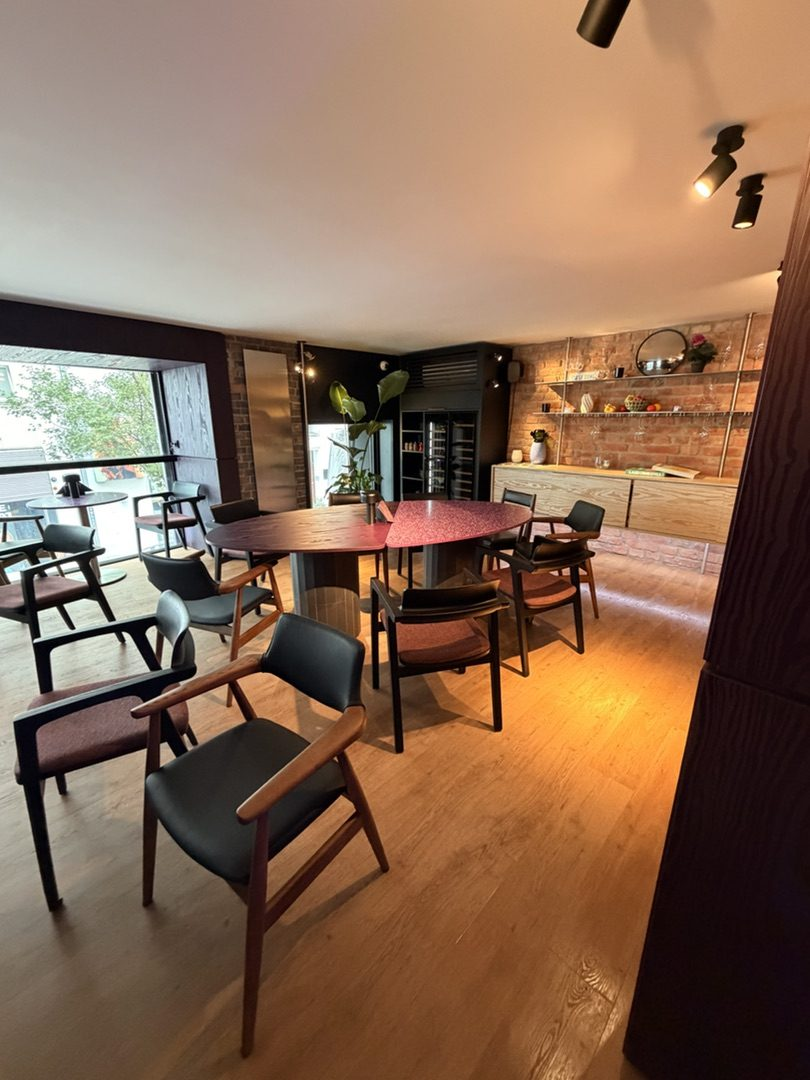
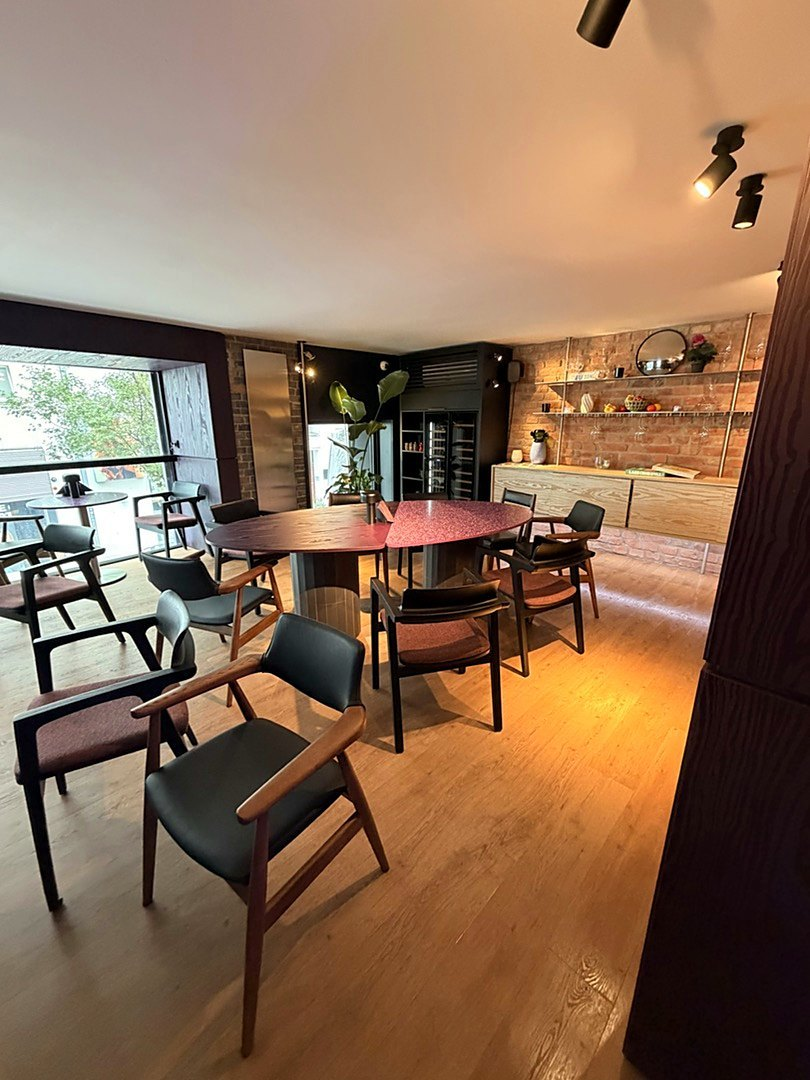
HOMIE case: the post-renovation history, better and brighter photos (#5)
The owner: «в феврале 26 делали несколько уборок после ремонта, после были еще
ремонты и в августе мы делали финальную уборку после ремонта».

- Stages: after the renovation (February 2026, several visits) → the final
  post-renovation cleaning (August 2026, 2 cleaners × 4 hours) → regular since
  12 September (Wednesday + Saturday mornings, the washroom log after every
  visit, two deep cleans in September on top). «Working together: since
  February 2026»; task, intro and result tell the same story.
- Photos 5–7 (stairs, washbasins, washroom) replaced with the owner's better
  shots from the regular cleanings; all eight brightened (the light stretched
  and lifted, colours of the venue kept) and gently sharpened.
- 13 new texts translated into ru, en, de and sk; the 13 texts of the first
  version that no page uses any more removed from the dictionaries.

Every page of every language renders without a script error or a Ukrainian
text left.

Claude-Session: https://claude.ai/code/session_018fMzojw3TUE5YQYnBgezzW

diff --git a/assets/i18n/ru.js b/assets/i18n/ru.js
@@ -2785,31 +2785,19 @@ window.SG_I18N = {
 "Обрати глибоке прибирання": "Выбрать глубокую",
 "Ресторан і бар": "Ресторан и бар",
 "Rabensteig, Відень": "Rabensteig, Вена",
-"Від першого прибирання до регулярного графіка — двічі на тиждень до відкриття закладу.": "От первой уборки до регулярного графика — дважды в неделю до открытия заведения.",
 "середа й субота, вранці": "среда и суббота, утром",
 "2 клінери × 4 години": "2 клинера × 4 часа",
 "Гігієна": "Гигиена",
 "протокол санвузлів після кожного виїзду": "протокол санузлов после каждого выезда",
-"із серпня 2026": "с августа 2026",
-"Ресторан і бар у центрі Відня: зали, барна стійка, кухня з піччю для піци, сходи між поверхами й санвузли. Прибирати треба вранці, до відкриття, щоб заклад зустрічав гостей чистим, а гігієну санвузлів — фіксувати після кожного виїзду.": "Ресторан и бар в центре Вены: залы, барная стойка, кухня с печью для пиццы, лестницы между этажами и санузлы. Убирать нужно утром, до открытия, чтобы заведение встречало гостей чистым, а гигиену санузлов — фиксировать после каждого выезда.",
-"Перше прибирання": "Первая уборка",
 "серпень 2026 · 2 клінери × 4 години": "август 2026 · 2 клинера × 4 часа",
-"Перший виїзд: двоє клінерів по 4 години пройшли всі зони закладу — зали, бар, кухню, сходи й санвузли.": "Первый выезд: двое клинеров по 4 часа прошли все зоны заведения — залы, бар, кухню, лестницы и санузлы.",
-"вересень 2026 · окремо від графіка": "сентябрь 2026 · отдельно от графика",
-"Понад регулярні виїзди — два глибокі прибирання. Їх рахуємо окремо, за фактично відпрацьований час.": "Сверх регулярных выездов — две глубокие уборки. Их считаем отдельно, за фактически отработанное время.",
-"середа й субота · 2 клінери × 4 години": "среда и суббота · 2 клинера × 4 часа",
-"З 12 вересня — двічі на тиждень, вранці до відкриття: двоє клінерів по 4 години. Після кожного виїзду заповнюємо протокол прибирання санвузлів: дата, час, дезінфекція, підпис клінера.": "С 12 сентября — дважды в неделю, утром до открытия: двое клинеров по 4 часа. После каждого выезда заполняем протокол уборки санузлов: дата, время, дезинфекция, подпись клинера.",
 "Зал ресторану HOMIE: столи, стільці й чиста деревʼяна підлога": "Зал ресторана HOMIE: столы, стулья и чистый деревянный пол",
 "Бар HOMIE з підсвіткою: довга стійка й барні стільці": "Бар HOMIE с подсветкой: длинная стойка и барные стулья",
 "Столики біля вікна в залі HOMIE": "Столики у окна в зале HOMIE",
 "Столики біля вікна": "Столики у окна",
 "Великий стіл для компаній у залі HOMIE": "Большой стол для компаний в зале HOMIE",
 "Стіл для компаній": "Стол для компаний",
-"Сходи HOMIE з підсвіткою: сходинки без пилу": "Лестница HOMIE с подсветкой: ступени без пыли",
 "Сходи": "Лестницы",
-"Рожеві умивальники з терацо в санвузлі HOMIE без розводів": "Розовые раковины из терраццо в санузле HOMIE без разводов",
 "Умивальники": "Раковины",
-"Санвузол HOMIE: чистий унітаз і підлога": "Санузел HOMIE: чистый унитаз и пол",
 "Кухня HOMIE: поверхні з нержавійки й піч для піци": "Кухня HOMIE: поверхности из нержавейки и печь для пиццы",
 "Зали: столи, стільці й підлога": "Залы: столы, стулья и пол",
 "Бар: стійка й робочі поверхні": "Бар: стойка и рабочие поверхности",
@@ -2818,5 +2806,17 @@ window.SG_I18N = {
 "Санвузли: сантехніка, умивальники, дзеркала й підлога": "Санузлы: сантехника, раковины, зеркала и пол",
 "Протокол прибирання санвузлів після кожного виїзду": "Протокол уборки санузлов после каждого выезда",
 "Глибоке прибирання — окремо, за фактичний час": "Глубокая уборка — отдельно, за фактическое время",
-"Двічі на тиждень заклад зустрічає гостей чистим, а гігієна санвузлів задокументована після кожного виїзду.": "Дважды в неделю заведение встречает гостей чистым, а гигиена санузлов задокументирована после каждого выезда."
+"Від прибирань після ремонту до регулярного графіка — історія одного закладу.": "От уборок после ремонта до регулярного графика — история одного заведения.",
+"з лютого 2026": "с февраля 2026",
+"Ресторан і бар у центрі Відня: зали, барна стійка, кухня з піччю для піци, сходи між поверхами й санвузли. Ремонт ішов у кілька етапів: спершу — прибрати після ремонту, а коли роботи завершилися, — двічі на тиждень вранці готувати заклад до гостей і фіксувати гігієну санвузлів.": "Ресторан и бар в центре Вены: залы, барная стойка, кухня с печью для пиццы, лестницы между этажами и санузлы. Ремонт шёл в несколько этапов: сначала — убрать после ремонта, а когда работы завершились, — дважды в неделю утром готовить заведение к гостям и фиксировать гигиену санузлов.",
+"лютий 2026 · кілька виїздів": "февраль 2026 · несколько выездов",
+"Перші прибирання — ще в лютому: кілька виїздів після ремонту. Потім у закладі тривали ремонтні роботи.": "Первые уборки — ещё в феврале: несколько выездов после ремонта. Потом в заведении продолжались ремонтные работы.",
+"Фінальне прибирання": "Финальная уборка",
+"Після останніх ремонтних робіт — фінальне прибирання: двоє клінерів по 4 години пройшли всі зони закладу — зали, бар, кухню, сходи й санвузли.": "После последних ремонтных работ — финальная уборка: двое клинеров по 4 часа прошли все зоны заведения — залы, бар, кухню, лестницы и санузлы.",
+"з вересня 2026 · середа й субота": "с сентября 2026 · среда и суббота",
+"З 12 вересня — двічі на тиждень, вранці до відкриття: двоє клінерів по 4 години. Після кожного виїзду заповнюємо протокол прибирання санвузлів: дата, час, дезінфекція, підпис клінера. Глибоке прибирання — окремо від графіка: у вересні їх було два.": "С 12 сентября — дважды в неделю, утром до открытия: двое клинеров по 4 часа. После каждого выезда заполняем протокол уборки санузлов: дата, время, дезинфекция, подпись клинера. Глубокая уборка — отдельно от графика: в сентябре их было две.",
+"Сходи HOMIE з підсвіткою: блискучі сходинки без пилу": "Лестница HOMIE с подсветкой: блестящие ступени без пыли",
+"Кран і рожевий умивальник з терацо в санвузлі HOMIE без розводів": "Кран и розовая раковина из терраццо в санузле HOMIE без разводов",
+"Санвузол HOMIE: чистий унітаз": "Санузел HOMIE: чистый унитаз",
+"Після фінального прибирання клієнт залишив за нами регулярне прибирання: двічі на тиждень заклад зустрічає гостей чистим, а гігієна санвузлів задокументована після кожного виїзду.": "После финальной уборки клиент оставил за нами регулярную уборку: дважды в неделю заведение встречает гостей чистым, а гигиена санузлов задокументирована после каждого выезда."
 };

diff --git a/assets/i18n/de.js b/assets/i18n/de.js
@@ -2785,31 +2785,19 @@ window.SG_I18N = {
 "Обрати глибоке прибирання": "Grundreinigung wählen",
 "Ресторан і бар": "Restaurant und Bar",
 "Rabensteig, Відень": "Rabensteig, Wien",
-"Від першого прибирання до регулярного графіка — двічі на тиждень до відкриття закладу.": "Von der ersten Reinigung zum festen Plan — zweimal pro Woche vor der Öffnung.",
 "середа й субота, вранці": "Mittwoch und Samstag, vormittags",
 "2 клінери × 4 години": "2 Reinigungskräfte × 4 Stunden",
 "Гігієна": "Hygiene",
 "протокол санвузлів після кожного виїзду": "Sanitärprotokoll nach jedem Einsatz",
-"із серпня 2026": "seit August 2026",
-"Ресторан і бар у центрі Відня: зали, барна стійка, кухня з піччю для піци, сходи між поверхами й санвузли. Прибирати треба вранці, до відкриття, щоб заклад зустрічав гостей чистим, а гігієну санвузлів — фіксувати після кожного виїзду.": "Restaurant und Bar im Zentrum Wiens: Gasträume, Bartheke, Küche mit Pizzaofen, Treppen zwischen den Etagen und Sanitärräume. Gereinigt wird vormittags vor der Öffnung, damit der Betrieb seine Gäste sauber empfängt — und die Hygiene der Sanitärräume wird nach jedem Einsatz dokumentiert.",
-"Перше прибирання": "Erste Reinigung",
 "серпень 2026 · 2 клінери × 4 години": "August 2026 · 2 Reinigungskräfte × 4 Stunden",
-"Перший виїзд: двоє клінерів по 4 години пройшли всі зони закладу — зали, бар, кухню, сходи й санвузли.": "Der erste Einsatz: Zwei Reinigungskräfte haben je 4 Stunden lang alle Bereiche des Betriebs gereinigt — Gasträume, Bar, Küche, Treppen und Sanitärräume.",
-"вересень 2026 · окремо від графіка": "September 2026 · zusätzlich zum Plan",
-"Понад регулярні виїзди — два глибокі прибирання. Їх рахуємо окремо, за фактично відпрацьований час.": "Zusätzlich zu den regelmäßigen Einsätzen — zwei Grundreinigungen. Sie werden gesondert nach tatsächlich geleisteter Zeit abgerechnet.",
-"середа й субота · 2 клінери × 4 години": "Mittwoch und Samstag · 2 Reinigungskräfte × 4 Stunden",
-"З 12 вересня — двічі на тиждень, вранці до відкриття: двоє клінерів по 4 години. Після кожного виїзду заповнюємо протокол прибирання санвузлів: дата, час, дезінфекція, підпис клінера.": "Seit 12. September — zweimal pro Woche, vormittags vor der Öffnung: zwei Reinigungskräfte je 4 Stunden. Nach jedem Einsatz füllen wir das Reinigungsprotokoll der Sanitärräume aus: Datum, Uhrzeit, Desinfektion, Unterschrift der Reinigungskraft.",
 "Зал ресторану HOMIE: столи, стільці й чиста деревʼяна підлога": "Gastraum von HOMIE: Tische, Stühle und sauberer Holzboden",
 "Бар HOMIE з підсвіткою: довга стійка й барні стільці": "Beleuchtete Bar von HOMIE: lange Theke und Barhocker",
 "Столики біля вікна в залі HOMIE": "Tische am Fenster im Gastraum von HOMIE",
 "Столики біля вікна": "Tische am Fenster",
 "Великий стіл для компаній у залі HOMIE": "Großer Tisch für Gruppen im Gastraum von HOMIE",
 "Стіл для компаній": "Tisch für Gruppen",
-"Сходи HOMIE з підсвіткою: сходинки без пилу": "Beleuchtete Treppe bei HOMIE: staubfreie Stufen",
 "Сходи": "Treppen",
-"Рожеві умивальники з терацо в санвузлі HOMIE без розводів": "Rosa Terrazzo-Waschbecken im Sanitärraum von HOMIE, ohne Schlieren",
 "Умивальники": "Waschbecken",
-"Санвузол HOMIE: чистий унітаз і підлога": "WC bei HOMIE: saubere Toilette und sauberer Boden",
 "Кухня HOMIE: поверхні з нержавійки й піч для піци": "Küche von HOMIE: Edelstahlflächen und Pizzaofen",
 "Зали: столи, стільці й підлога": "Gasträume: Tische, Stühle und Boden",
 "Бар: стійка й робочі поверхні": "Bar: Theke und Arbeitsflächen",
@@ -2818,5 +2806,17 @@ window.SG_I18N = {
 "Санвузли: сантехніка, умивальники, дзеркала й підлога": "Sanitärräume: Sanitäranlagen, Waschbecken, Spiegel und Boden",
 "Протокол прибирання санвузлів після кожного виїзду": "Reinigungsprotokoll der Sanitärräume nach jedem Einsatz",
 "Глибоке прибирання — окремо, за фактичний час": "Grundreinigung — gesondert, nach tatsächlicher Zeit",
-"Двічі на тиждень заклад зустрічає гостей чистим, а гігієна санвузлів задокументована після кожного виїзду.": "Zweimal pro Woche empfängt der Betrieb seine Gäste sauber, und die Hygiene der Sanitärräume ist nach jedem Einsatz dokumentiert."
+"Від прибирань після ремонту до регулярного графіка — історія одного закладу.": "Von der Reinigung nach Renovierung zum festen Plan — die Geschichte eines Lokals.",
+"з лютого 2026": "seit Februar 2026",
+"Ресторан і бар у центрі Відня: зали, барна стійка, кухня з піччю для піци, сходи між поверхами й санвузли. Ремонт ішов у кілька етапів: спершу — прибрати після ремонту, а коли роботи завершилися, — двічі на тиждень вранці готувати заклад до гостей і фіксувати гігієну санвузлів.": "Restaurant und Bar im Zentrum Wiens: Gasträume, Bartheke, Küche mit Pizzaofen, Treppen zwischen den Etagen und Sanitärräume. Die Renovierung lief in mehreren Etappen: zuerst die Reinigung nach der Renovierung, und als die Arbeiten abgeschlossen waren, zweimal pro Woche vormittags den Betrieb für die Gäste vorbereiten und die Hygiene der Sanitärräume dokumentieren.",
+"лютий 2026 · кілька виїздів": "Februar 2026 · mehrere Einsätze",
+"Перші прибирання — ще в лютому: кілька виїздів після ремонту. Потім у закладі тривали ремонтні роботи.": "Die ersten Reinigungen gab es schon im Februar: mehrere Einsätze nach der Renovierung. Danach liefen im Lokal weitere Renovierungsarbeiten.",
+"Фінальне прибирання": "Endreinigung",
+"Після останніх ремонтних робіт — фінальне прибирання: двоє клінерів по 4 години пройшли всі зони закладу — зали, бар, кухню, сходи й санвузли.": "Nach den letzten Renovierungsarbeiten die Endreinigung: Zwei Reinigungskräfte haben je 4 Stunden lang alle Bereiche des Betriebs gereinigt — Gasträume, Bar, Küche, Treppen und Sanitärräume.",
+"з вересня 2026 · середа й субота": "seit September 2026 · Mittwoch und Samstag",
+"З 12 вересня — двічі на тиждень, вранці до відкриття: двоє клінерів по 4 години. Після кожного виїзду заповнюємо протокол прибирання санвузлів: дата, час, дезінфекція, підпис клінера. Глибоке прибирання — окремо від графіка: у вересні їх було два.": "Seit 12. September — zweimal pro Woche, vormittags vor der Öffnung: zwei Reinigungskräfte je 4 Stunden. Nach jedem Einsatz füllen wir das Reinigungsprotokoll der Sanitärräume aus: Datum, Uhrzeit, Desinfektion, Unterschrift der Reinigungskraft. Grundreinigungen laufen außerhalb des Plans: Im September waren es zwei.",
+"Сходи HOMIE з підсвіткою: блискучі сходинки без пилу": "Beleuchtete Treppe bei HOMIE: glänzende, staubfreie Stufen",
+"Кран і рожевий умивальник з терацо в санвузлі HOMIE без розводів": "Wasserhahn und rosa Terrazzo-Waschbecken im Sanitärraum von HOMIE, ohne Schlieren",
+"Санвузол HOMIE: чистий унітаз": "WC bei HOMIE: saubere Toilette",
+"Після фінального прибирання клієнт залишив за нами регулярне прибирання: двічі на тиждень заклад зустрічає гостей чистим, а гігієна санвузлів задокументована після кожного виїзду.": "Nach der Endreinigung hat uns der Kunde mit der regelmäßigen Reinigung beauftragt: Zweimal pro Woche empfängt der Betrieb seine Gäste sauber, und die Hygiene der Sanitärräume ist nach jedem Einsatz dokumentiert."
 };

diff --git a/assets/i18n/sk.js b/assets/i18n/sk.js
@@ -2785,31 +2785,19 @@ window.SG_I18N = {
 "Обрати глибоке прибирання": "Vybrať hĺbkové",
 "Ресторан і бар": "Reštaurácia a bar",
 "Rabensteig, Відень": "Rabensteig, Viedeň",
-"Від першого прибирання до регулярного графіка — двічі на тиждень до відкриття закладу.": "Od prvého upratovania k pravidelnému harmonogramu — dvakrát týždenne pred otvorením prevádzky.",
 "середа й субота, вранці": "streda a sobota, ráno",
 "2 клінери × 4 години": "2 upratovači × 4 hodiny",
 "Гігієна": "Hygiena",
 "протокол санвузлів після кожного виїзду": "protokol sociálnych zariadení po každej návšteve",
-"із серпня 2026": "od augusta 2026",
-"Ресторан і бар у центрі Відня: зали, барна стійка, кухня з піччю для піци, сходи між поверхами й санвузли. Прибирати треба вранці, до відкриття, щоб заклад зустрічав гостей чистим, а гігієну санвузлів — фіксувати після кожного виїзду.": "Reštaurácia a bar v centre Viedne: sály, barový pult, kuchyňa s pecou na pizzu, schodiská medzi podlažiami a sociálne zariadenia. Upratovať treba ráno pred otvorením, aby prevádzka vítala hostí čistá, a hygienu sociálnych zariadení zaznamenávať po každej návšteve.",
-"Перше прибирання": "Prvé upratovanie",
 "серпень 2026 · 2 клінери × 4 години": "august 2026 · 2 upratovači × 4 hodiny",
-"Перший виїзд: двоє клінерів по 4 години пройшли всі зони закладу — зали, бар, кухню, сходи й санвузли.": "Prvá návšteva: dvaja upratovači po 4 hodiny prešli všetky zóny prevádzky — sály, bar, kuchyňu, schodiská a sociálne zariadenia.",
-"вересень 2026 · окремо від графіка": "september 2026 · mimo harmonogramu",
-"Понад регулярні виїзди — два глибокі прибирання. Їх рахуємо окремо, за фактично відпрацьований час.": "Nad rámec pravidelných návštev — dve hĺbkové upratovania. Počítame ich samostatne, podľa skutočne odpracovaného času.",
-"середа й субота · 2 клінери × 4 години": "streda a sobota · 2 upratovači × 4 hodiny",
-"З 12 вересня — двічі на тиждень, вранці до відкриття: двоє клінерів по 4 години. Після кожного виїзду заповнюємо протокол прибирання санвузлів: дата, час, дезінфекція, підпис клінера.": "Od 12. septembra — dvakrát týždenne, ráno pred otvorením: dvaja upratovači po 4 hodiny. Po každej návšteve vyplníme protokol upratovania sociálnych zariadení: dátum, čas, dezinfekcia, podpis upratovača.",
 "Зал ресторану HOMIE: столи, стільці й чиста деревʼяна підлога": "Sála reštaurácie HOMIE: stoly, stoličky a čistá drevená podlaha",
 "Бар HOMIE з підсвіткою: довга стійка й барні стільці": "Bar HOMIE s podsvietením: dlhý pult a barové stoličky",
 "Столики біля вікна в залі HOMIE": "Stolíky pri okne v sále HOMIE",
 "Столики біля вікна": "Stolíky pri okne",
 "Великий стіл для компаній у залі HOMIE": "Veľký stôl pre skupiny v sále HOMIE",
 "Стіл для компаній": "Stôl pre skupiny",
-"Сходи HOMIE з підсвіткою: сходинки без пилу": "Podsvietené schodisko HOMIE: schody bez prachu",
 "Сходи": "Schodiská",
-"Рожеві умивальники з терацо в санвузлі HOMIE без розводів": "Ružové umývadlá z terazza v sociálnom zariadení HOMIE bez šmúh",
 "Умивальники": "Umývadlá",
-"Санвузол HOMIE: чистий унітаз і підлога": "WC v HOMIE: čistá toaleta a podlaha",
 "Кухня HOMIE: поверхні з нержавійки й піч для піци": "Kuchyňa HOMIE: nerezové povrchy a pec na pizzu",
 "Зали: столи, стільці й підлога": "Sály: stoly, stoličky a podlaha",
 "Бар: стійка й робочі поверхні": "Bar: pult a pracovné plochy",
@@ -2818,5 +2806,17 @@ window.SG_I18N = {
 "Санвузли: сантехніка, умивальники, дзеркала й підлога": "Sociálne zariadenia: sanita, umývadlá, zrkadlá a podlaha",
 "Протокол прибирання санвузлів після кожного виїзду": "Protokol upratovania sociálnych zariadení po každej návšteve",
 "Глибоке прибирання — окремо, за фактичний час": "Hĺbkové upratovanie — samostatne, za skutočný čas",
-"Двічі на тиждень заклад зустрічає гостей чистим, а гігієна санвузлів задокументована після кожного виїзду.": "Dvakrát týždenne prevádzka víta hostí čistá a hygiena sociálnych zariadení je zdokumentovaná po každej návšteve."
+"Від прибирань після ремонту до регулярного графіка — історія одного закладу.": "Od upratovania po rekonštrukcii k pravidelnému harmonogramu — príbeh jednej prevádzky.",
+"з лютого 2026": "od februára 2026",
+"Ресторан і бар у центрі Відня: зали, барна стійка, кухня з піччю для піци, сходи між поверхами й санвузли. Ремонт ішов у кілька етапів: спершу — прибрати після ремонту, а коли роботи завершилися, — двічі на тиждень вранці готувати заклад до гостей і фіксувати гігієну санвузлів.": "Reštaurácia a bar v centre Viedne: sály, barový pult, kuchyňa s pecou na pizzu, schodiská medzi podlažiami a sociálne zariadenia. Rekonštrukcia prebiehala v niekoľkých etapách: najprv upratať po rekonštrukcii a keď sa práce skončili, dvakrát týždenne ráno pripravovať prevádzku na hostí a zaznamenávať hygienu sociálnych zariadení.",
+"лютий 2026 · кілька виїздів": "február 2026 · niekoľko výjazdov",
+"Перші прибирання — ще в лютому: кілька виїздів після ремонту. Потім у закладі тривали ремонтні роботи.": "Prvé upratovania boli už vo februári: niekoľko výjazdov po rekonštrukcii. Potom v prevádzke pokračovali rekonštrukčné práce.",
+"Фінальне прибирання": "Záverečné upratovanie",
+"Після останніх ремонтних робіт — фінальне прибирання: двоє клінерів по 4 години пройшли всі зони закладу — зали, бар, кухню, сходи й санвузли.": "Po posledných rekonštrukčných prácach — záverečné upratovanie: dvaja upratovači po 4 hodiny prešli všetky zóny prevádzky — sály, bar, kuchyňu, schodiská a sociálne zariadenia.",
+"з вересня 2026 · середа й субота": "od septembra 2026 · streda a sobota",
+"З 12 вересня — двічі на тиждень, вранці до відкриття: двоє клінерів по 4 години. Після кожного виїзду заповнюємо протокол прибирання санвузлів: дата, час, дезінфекція, підпис клінера. Глибоке прибирання — окремо від графіка: у вересні їх було два.": "Od 12. septembra — dvakrát týždenne, ráno pred otvorením: dvaja upratovači po 4 hodiny. Po každej návšteve vyplníme protokol upratovania sociálnych zariadení: dátum, čas, dezinfekcia, podpis upratovača. Hĺbkové upratovanie je mimo harmonogramu: v septembri boli dve.",
+"Сходи HOMIE з підсвіткою: блискучі сходинки без пилу": "Podsvietené schodisko HOMIE: lesklé schody bez prachu",
+"Кран і рожевий умивальник з терацо в санвузлі HOMIE без розводів": "Batéria a ružové umývadlo z terazza v sociálnom zariadení HOMIE bez šmúh",
+"Санвузол HOMIE: чистий унітаз": "WC v HOMIE: čistá toaleta",
+"Після фінального прибирання клієнт залишив за нами регулярне прибирання: двічі на тиждень заклад зустрічає гостей чистим, а гігієна санвузлів задокументована після кожного виїзду.": "Po záverečnom upratovaní nám klient ponechal pravidelné upratovanie: dvakrát týždenne prevádzka víta hostí čistá a hygiena sociálnych zariadení je zdokumentovaná po každej návšteve."
 };

diff --git a/assets/i18n/en.js b/assets/i18n/en.js
@@ -2785,31 +2785,19 @@ window.SG_I18N = {
 "Обрати глибоке прибирання": "Choose deep",
 "Ресторан і бар": "Restaurant and bar",
 "Rabensteig, Відень": "Rabensteig, Vienna",
-"Від першого прибирання до регулярного графіка — двічі на тиждень до відкриття закладу.": "From the first cleaning to a regular schedule — twice a week before the venue opens.",
 "середа й субота, вранці": "Wednesday and Saturday mornings",
 "2 клінери × 4 години": "2 cleaners × 4 hours",
 "Гігієна": "Hygiene",
 "протокол санвузлів після кожного виїзду": "a washroom log after every visit",
-"із серпня 2026": "since August 2026",
-"Ресторан і бар у центрі Відня: зали, барна стійка, кухня з піччю для піци, сходи між поверхами й санвузли. Прибирати треба вранці, до відкриття, щоб заклад зустрічав гостей чистим, а гігієну санвузлів — фіксувати після кожного виїзду.": "A restaurant and bar in the centre of Vienna: dining rooms, a bar counter, a kitchen with a pizza oven, stairs between floors and washrooms. The cleaning has to happen in the morning, before opening, so the venue welcomes its guests clean — and washroom hygiene has to be logged after every visit.",
-"Перше прибирання": "First cleaning",
 "серпень 2026 · 2 клінери × 4 години": "August 2026 · 2 cleaners × 4 hours",
-"Перший виїзд: двоє клінерів по 4 години пройшли всі зони закладу — зали, бар, кухню, сходи й санвузли.": "The first visit: two cleaners, 4 hours each, went through every area of the venue — dining rooms, bar, kitchen, stairs and washrooms.",
-"вересень 2026 · окремо від графіка": "September 2026 · on top of the schedule",
-"Понад регулярні виїзди — два глибокі прибирання. Їх рахуємо окремо, за фактично відпрацьований час.": "On top of the regular visits — two deep cleans. They are charged separately, for the time actually worked.",
-"середа й субота · 2 клінери × 4 години": "Wednesday and Saturday · 2 cleaners × 4 hours",
-"З 12 вересня — двічі на тиждень, вранці до відкриття: двоє клінерів по 4 години. Після кожного виїзду заповнюємо протокол прибирання санвузлів: дата, час, дезінфекція, підпис клінера.": "Since 12 September — twice a week, in the morning before opening: two cleaners, 4 hours each. After every visit we fill in the washroom cleaning log: date, time, disinfection, the cleaner's signature.",
 "Зал ресторану HOMIE: столи, стільці й чиста деревʼяна підлога": "HOMIE dining room: tables, chairs and a clean wooden floor",
 "Бар HOMIE з підсвіткою: довга стійка й барні стільці": "The HOMIE bar with lighting: a long counter and bar stools",
 "Столики біля вікна в залі HOMIE": "Tables by the window in the HOMIE dining room",
 "Столики біля вікна": "Window tables",
 "Великий стіл для компаній у залі HOMIE": "A large table for groups in the HOMIE dining room",
 "Стіл для компаній": "Table for groups",
-"Сходи HOMIE з підсвіткою: сходинки без пилу": "The lit HOMIE staircase: dust-free steps",
 "Сходи": "Stairs",
-"Рожеві умивальники з терацо в санвузлі HOMIE без розводів": "Pink terrazzo washbasins in the HOMIE washroom, streak-free",
 "Умивальники": "Washbasins",
-"Санвузол HOMIE: чистий унітаз і підлога": "HOMIE washroom: a clean toilet and floor",
 "Кухня HOMIE: поверхні з нержавійки й піч для піци": "HOMIE kitchen: stainless steel surfaces and a pizza oven",
 "Зали: столи, стільці й підлога": "Dining rooms: tables, chairs and floor",
 "Бар: стійка й робочі поверхні": "Bar: counter and work surfaces",
@@ -2818,5 +2806,17 @@ window.SG_I18N = {
 "Санвузли: сантехніка, умивальники, дзеркала й підлога": "Washrooms: sanitary fittings, washbasins, mirrors and floor",
 "Протокол прибирання санвузлів після кожного виїзду": "A washroom cleaning log after every visit",
 "Глибоке прибирання — окремо, за фактичний час": "Deep cleaning — separately, for the actual time",
-"Двічі на тиждень заклад зустрічає гостей чистим, а гігієна санвузлів задокументована після кожного виїзду.": "Twice a week the venue welcomes its guests clean, and washroom hygiene is documented after every visit."
+"Від прибирань після ремонту до регулярного графіка — історія одного закладу.": "From post-renovation cleaning to a regular schedule — the story of one venue.",
+"з лютого 2026": "since February 2026",
+"Ресторан і бар у центрі Відня: зали, барна стійка, кухня з піччю для піци, сходи між поверхами й санвузли. Ремонт ішов у кілька етапів: спершу — прибрати після ремонту, а коли роботи завершилися, — двічі на тиждень вранці готувати заклад до гостей і фіксувати гігієну санвузлів.": "A restaurant and bar in the centre of Vienna: dining rooms, a bar counter, a kitchen with a pizza oven, stairs between floors and washrooms. The renovation went in several stages: first, cleaning after the renovation; then, once the work was done, getting the venue ready for guests twice a week in the morning and logging washroom hygiene.",
+"лютий 2026 · кілька виїздів": "February 2026 · several visits",
+"Перші прибирання — ще в лютому: кілька виїздів після ремонту. Потім у закладі тривали ремонтні роботи.": "The first cleanings date back to February: several visits after the renovation. After that, renovation work at the venue went on.",
+"Фінальне прибирання": "Final cleaning",
+"Після останніх ремонтних робіт — фінальне прибирання: двоє клінерів по 4 години пройшли всі зони закладу — зали, бар, кухню, сходи й санвузли.": "After the last renovation work — the final cleaning: two cleaners, 4 hours each, went through every area of the venue — dining rooms, bar, kitchen, stairs and washrooms.",
+"з вересня 2026 · середа й субота": "since September 2026 · Wednesday and Saturday",
+"З 12 вересня — двічі на тиждень, вранці до відкриття: двоє клінерів по 4 години. Після кожного виїзду заповнюємо протокол прибирання санвузлів: дата, час, дезінфекція, підпис клінера. Глибоке прибирання — окремо від графіка: у вересні їх було два.": "Since 12 September — twice a week, in the morning before opening: two cleaners, 4 hours each. After every visit we fill in the washroom cleaning log: date, time, disinfection, the cleaner's signature. Deep cleaning is booked separately from the schedule: there were two in September.",
+"Сходи HOMIE з підсвіткою: блискучі сходинки без пилу": "The lit HOMIE staircase: shiny, dust-free steps",
+"Кран і рожевий умивальник з терацо в санвузлі HOMIE без розводів": "A tap and a pink terrazzo washbasin in the HOMIE washroom, streak-free",
+"Санвузол HOMIE: чистий унітаз": "HOMIE washroom: a clean toilet",
+"Після фінального прибирання клієнт залишив за нами регулярне прибирання: двічі на тиждень заклад зустрічає гостей чистим, а гігієна санвузлів задокументована після кожного виїзду.": "After the final cleaning, the client kept us on for regular cleaning: twice a week the venue welcomes its guests clean, and washroom hygiene is documented after every visit."
 };

diff --git a/assets/data.js b/assets/data.js
@@ -1284,36 +1284,38 @@ const CASES = {
     quote: ['Дякуємо за вашу допомогу під час відкриття — раді нашій співпраці.', 'Менеджер проєкту відкриття магазину · з листа, перекладено з англійської'],
     video: 'https://www.instagram.com/reel/DdETqRcgkAj/',
   }],
-  // owner, 2026-10-20: «добавить кейс с регулярными уборками как мы добавляли лулулемон». The facts are those of the
-  // client card (no prices, contacts or contract terms on the site); no logo yet — homie.rest was out of reach, so the
-  // name stands alone
+  // owner, 2026-10-20: «добавить кейс с регулярными уборками как мы добавляли лулулемон», then: «в феврале 26 делали
+  // несколько уборок после ремонта, после были еще ремонты и в августе мы делали финальную уборку после ремонта». The
+  // facts are those of the client card and the owner's words (no prices, contacts or contract terms on the site); no
+  // logo yet — homie.rest was out of reach, so the name stands alone
   restaurants: [{
     name: 'HOMIE', kind: 'Ресторан і бар', place: 'Rabensteig, Відень',
-    sub: 'Від першого прибирання до регулярного графіка — двічі на тиждень до відкриття закладу.',
-    facts: [['Графік', 'середа й субота, вранці'], ['Команда', '2 клінери × 4 години'], ['Гігієна', 'протокол санвузлів після кожного виїзду'], ['Працюємо разом', 'із серпня 2026']],
-    task: 'Ресторан і бар у центрі Відня: зали, барна стійка, кухня з піччю для піци, сходи між поверхами й санвузли. Прибирати треба вранці, до відкриття, щоб заклад зустрічав гостей чистим, а гігієну санвузлів — фіксувати після кожного виїзду.',
+    sub: 'Від прибирань після ремонту до регулярного графіка — історія одного закладу.',
+    facts: [['Графік', 'середа й субота, вранці'], ['Команда', '2 клінери × 4 години'], ['Гігієна', 'протокол санвузлів після кожного виїзду'], ['Працюємо разом', 'з лютого 2026']],
+    task: 'Ресторан і бар у центрі Відня: зали, барна стійка, кухня з піччю для піци, сходи між поверхами й санвузли. Ремонт ішов у кілька етапів: спершу — прибрати після ремонту, а коли роботи завершилися, — двічі на тиждень вранці готувати заклад до гостей і фіксувати гігієну санвузлів.',
     stages: [
-      { t: 'Перше прибирання', when: 'серпень 2026 · 2 клінери × 4 години',
-        text: 'Перший виїзд: двоє клінерів по 4 години пройшли всі зони закладу — зали, бар, кухню, сходи й санвузли.', },
-      { t: 'Глибоке прибирання', when: 'вересень 2026 · окремо від графіка',
-        text: 'Понад регулярні виїзди — два глибокі прибирання. Їх рахуємо окремо, за фактично відпрацьований час.', },
-      { t: 'Регулярно', when: 'середа й субота · 2 клінери × 4 години',
-        text: 'З 12 вересня — двічі на тиждень, вранці до відкриття: двоє клінерів по 4 години. Після кожного виїзду заповнюємо протокол прибирання санвузлів: дата, час, дезінфекція, підпис клінера.', },
+      { t: 'Після ремонту', when: 'лютий 2026 · кілька виїздів',
+        text: 'Перші прибирання — ще в лютому: кілька виїздів після ремонту. Потім у закладі тривали ремонтні роботи.', },
+      { t: 'Фінальне прибирання', when: 'серпень 2026 · 2 клінери × 4 години',
+        text: 'Після останніх ремонтних робіт — фінальне прибирання: двоє клінерів по 4 години пройшли всі зони закладу — зали, бар, кухню, сходи й санвузли.', },
+      { t: 'Регулярно', when: 'з вересня 2026 · середа й субота',
+        text: 'З 12 вересня — двічі на тиждень, вранці до відкриття: двоє клінерів по 4 години. Після кожного виїзду заповнюємо протокол прибирання санвузлів: дата, час, дезінфекція, підпис клінера. Глибоке прибирання — окремо від графіка: у вересні їх було два.', },
     ],
-    // the venue after our cleaning (the owner's photos, 2026-10-20; the dining room first): [file, alt, the zone it
-    // shows (the caption), object-position]
+    // the venue on the regular cleanings (the owner's photos, 2026-10-20; the dining room first; 5–7 his better shots
+    // from the regular visits, every photo brightened and sharpened): [file, alt, the zone it shows (the caption),
+    // object-position]
     gallery: [
       ['case-homie-p0.jpg', 'Зал ресторану HOMIE: столи, стільці й чиста деревʼяна підлога', 'Зал'],
       ['case-homie-p1.jpg', 'Бар HOMIE з підсвіткою: довга стійка й барні стільці', 'Бар'],
       ['case-homie-p2.jpg', 'Столики біля вікна в залі HOMIE', 'Столики біля вікна'],
       ['case-homie-p3.jpg', 'Великий стіл для компаній у залі HOMIE', 'Стіл для компаній'],
-      ['case-homie-p4.jpg', 'Сходи HOMIE з підсвіткою: сходинки без пилу', 'Сходи'],
-      ['case-homie-p5.jpg', 'Рожеві умивальники з терацо в санвузлі HOMIE без розводів', 'Умивальники'],
-      ['case-homie-p6.jpg', 'Санвузол HOMIE: чистий унітаз і підлога', 'Санвузли'],
+      ['case-homie-p4.jpg', 'Сходи HOMIE з підсвіткою: блискучі сходинки без пилу', 'Сходи'],
+      ['case-homie-p5.jpg', 'Кран і рожевий умивальник з терацо в санвузлі HOMIE без розводів', 'Умивальники'],
+      ['case-homie-p6.jpg', 'Санвузол HOMIE: чистий унітаз', 'Санвузли'],
       ['case-homie-p7.jpg', 'Кухня HOMIE: поверхні з нержавійки й піч для піци', 'Кухня'],
     ],
     work: ['Зали: столи, стільці й підлога', 'Бар: стійка й робочі поверхні', 'Кухня: поверхні з нержавійки й підлога', 'Сходи між поверхами', 'Санвузли: сантехніка, умивальники, дзеркала й підлога', 'Протокол прибирання санвузлів після кожного виїзду', 'Глибоке прибирання — окремо, за фактичний час'],
-    result: 'Двічі на тиждень заклад зустрічає гостей чистим, а гігієна санвузлів задокументована після кожного виїзду.',
+    result: 'Після фінального прибирання клієнт залишив за нами регулярне прибирання: двічі на тиждень заклад зустрічає гостей чистим, а гігієна санвузлів задокументована після кожного виїзду.',
   }],
 };
 const OBJ_PAGE = { office: 'offices', restaurant: 'restaurants', gym: 'gyms', shop: 'shops', apartments: 'hotels' };
